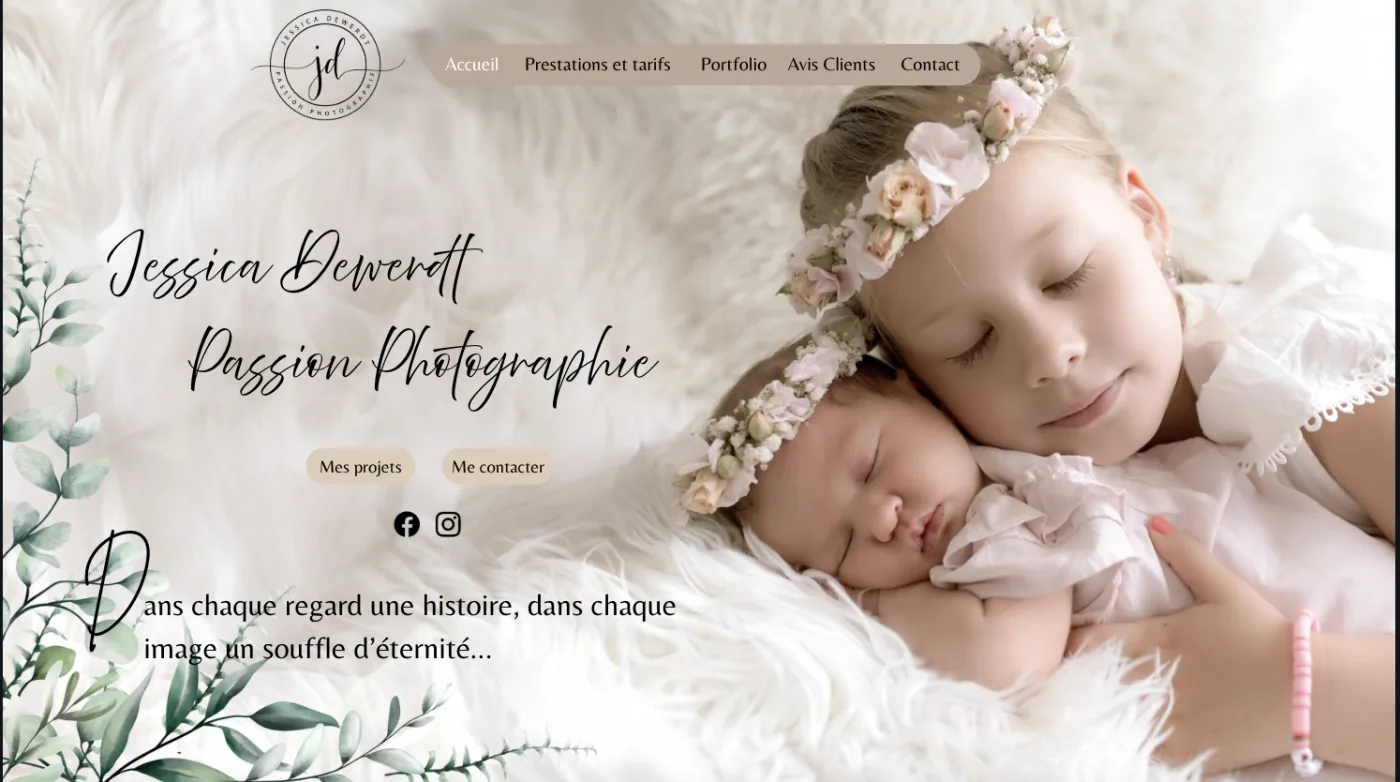
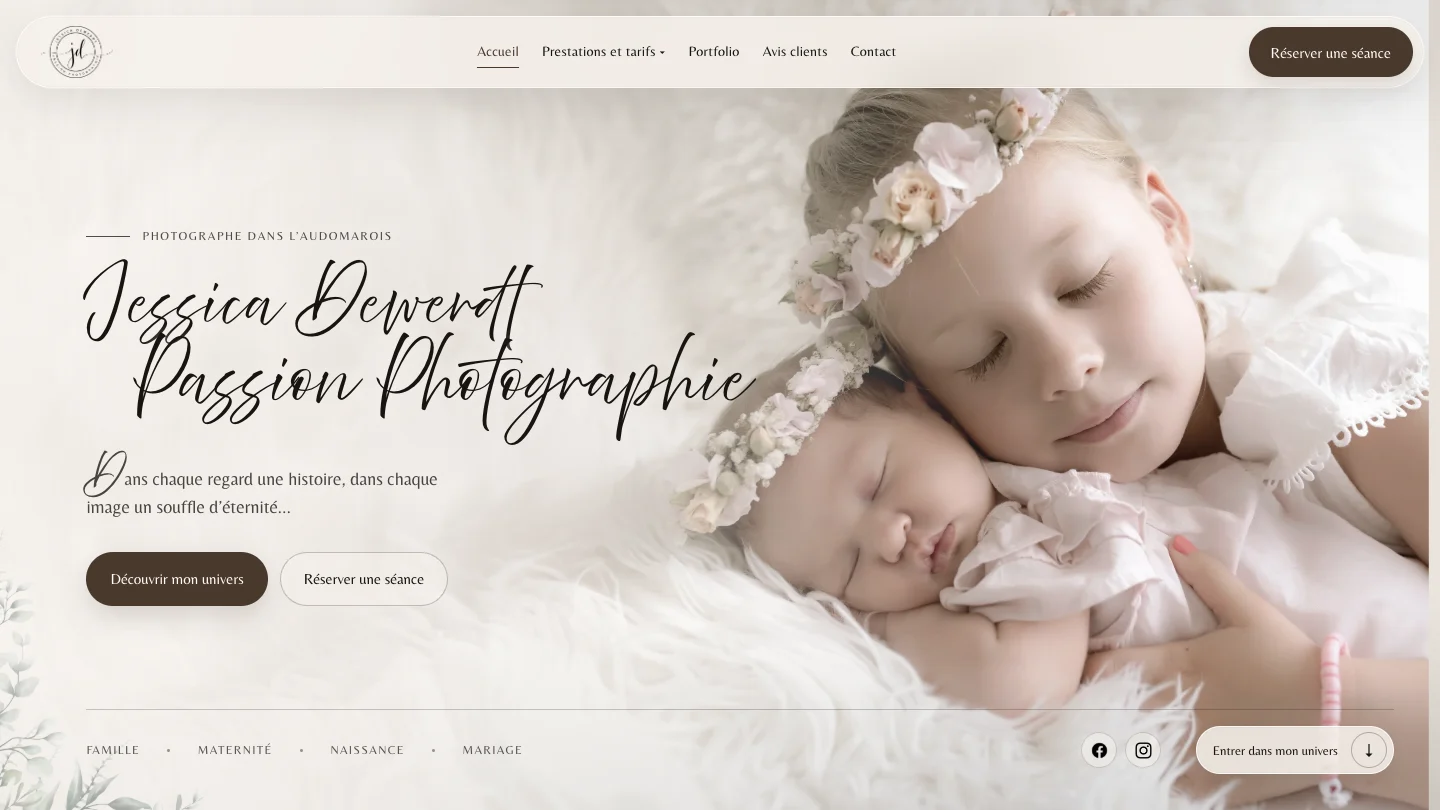
Actualise Jessica Dew et archive La Citadelle Rouge

diff --git a/script.js b/script.js
@@ -385,27 +385,66 @@ document.addEventListener("DOMContentLoaded", () => {
             id: 1,
             index: "05",
             filter: "client",
-            title: "Site Jessica Dew",
-            category: "Site vitrine · Client",
+            title: "Jessica Dew · Passion Photographie",
+            category: "Site vitrine & parcours de contact · Client",
             year: "2025 - 2026",
-            created: "Décembre 2025",
-            role: "Design & intégration",
-            status: "Itération client",
+            dateLabel: "Refonte",
+            created: "Juillet 2026",
+            role: "Direction artistique & développement full-stack",
+            status: "Préproduction",
             accent: "#43dfff",
             logo: "./images/projects/jessica-dew/logo.png",
             logoAlt: "Monogramme Jessica Dew",
             logoMark: "JD",
             description:
-                "Création d'un site vitrine sur mesure pour une photographe.\n\nLe projet est encore en cours d'itération selon les besoins de la cliente.",
-            summary: "Direction artistique éditoriale et parcours de conversion simplifié.",
-            impact: "Maquette premium et parcours de contact optimisé.",
-            techs: ["HTML", "CSS", "JavaScript"],
+                "Refonte complète du site de Jessica Dewerdt, photographe dans l'Audomarois. L'objectif était de traduire son univers doux et éditorial dans une expérience claire, immersive et rassurante, sans laisser les informations pratiques prendre le dessus sur les images.\n\nLa nouvelle version construit un véritable parcours client : une hero expressive, six univers de séances, des pages détaillées avec tarifs, un portfolio, des avis, des cartes cadeaux, des offres temporaires et des appels à l'action cohérents jusqu'à la prise de contact.\n\nLe formulaire est intégré à une application Symfony et ne se limite pas à un simple envoi d'e-mail. Il préremplit le type de séance selon le parcours, valide les données côté navigateur et serveur, bloque les soumissions automatisées avec un challenge signé et un honeypot, limite les abus et évite les doublons grâce à une clé d'idempotence. Les demandes sont ensuite transmises par Brevo avec une adresse d'envoi authentifiée et l'adresse du visiteur en réponse directe.\n\nL'ensemble a été conçu pour rester fluide et lisible du mobile au grand écran, avec une navigation accessible, des carrousels contrôlables, une prise en charge de la réduction des animations et des tests dédiés aux parcours critiques.",
+            summary: "Un site photographique complet qui transforme un univers visuel en parcours de découverte et de prise de contact.",
+            impact: "Six prestations, portfolio éditorial, contenus commerciaux et formulaire Symfony sécurisé relié à la messagerie cliente.",
+            techs: ["Symfony 7.4", "PHP 8.2", "Twig", "JavaScript", "HTML", "CSS", "Brevo SMTP", "PHPUnit"],
             cover: "./images/projects/jessica-dew/cover.webp",
+            coverLabel: "Refonte éditoriale & parcours client",
+            galleryLayout: "case-study",
             images: [
-                "./images/projects/jessica-dew/gallery/page-complete.png",
-                "./images/projects/jessica-dew/gallery/portfolio-photographe.png"
+                {
+                    src: "./images/projects/jessica-dew/gallery/catalogue-prestations.webp",
+                    alt: "Catalogue des prestations photographiques du site Jessica Dew",
+                    caption: "Six univers de séances structurés pour guider chaque besoin",
+                    group: "Découvrir l'univers",
+                    orientation: "landscape"
+                },
+                {
+                    src: "./images/projects/jessica-dew/gallery/portfolio-editorial.webp",
+                    alt: "Portfolio éditorial du site Jessica Dew",
+                    caption: "Portfolio immersif mêlant sélection horizontale et composition éditoriale",
+                    group: "Découvrir l'univers",
+                    orientation: "landscape"
+                },
+                {
+                    src: "./images/projects/jessica-dew/gallery/seance-naissance.webp",
+                    alt: "Page consacrée aux séances naissance sur le site Jessica Dew",
+                    caption: "Page prestation avec récit, galerie contrôlable et accès aux tarifs",
+                    group: "Du contenu à la demande",
+                    orientation: "landscape"
+                },
+                {
+                    src: "./images/projects/jessica-dew/gallery/formulaire-contact.webp",
+                    alt: "Formulaire de contact du site Jessica Dew",
+                    caption: "Formulaire contextuel, accessible et relié à une chaîne d'envoi sécurisée",
+                    group: "Du contenu à la demande",
+                    orientation: "landscape"
+                }
             ],
-            repoLink: null,
+            features: [
+                "Hero immersive, identité éditoriale sur mesure et navigation responsive commune à l'ensemble du site.",
+                "Six univers de séances avec contenus, galeries, tarifs et appels à l'action adaptés.",
+                "Portfolio, avis clients, cartes cadeaux et offres temporaires réunis dans un parcours cohérent.",
+                "Carrousels accessibles, navigation clavier, états de focus et réduction des animations prise en charge.",
+                "Formulaire prérempli selon la séance, validation client/serveur et conservation des saisies en cas d'erreur.",
+                "Protection par challenge signé, honeypot, limites de débit, contrôle d'origine et idempotence.",
+                "Envoi transactionnel via Brevo, sans base de données ni cookie pour traiter les demandes.",
+                "Tests PHPUnit des parcours critiques et préparation du déploiement sur l'hébergement de la cliente."
+            ],
+            repoLink: "https://github.com/rfielbal/Jessica-Dew-Passion-Photographie",
             liveLink: null
         },
         {
@@ -508,7 +547,7 @@ document.addEventListener("DOMContentLoaded", () => {
             year: "2019",
             created: "Juillet 2019",
             role: "Game design & automatisation",
-            status: "En développement",
+            status: "Archivé",
             accent: "#ff5f57",
             logo: "./images/projects/citadelle-rouge/logo.svg",
             logoMark: "CR",
@@ -646,28 +685,28 @@ document.addEventListener("DOMContentLoaded", () => {
         },
         interaction: {
             accent: "#43dfff",
-            status: "Jessica Dew / itération client",
+            status: "Jessica Dew / préproduction",
             index: "03 / 04",
-            context: "Client · UI/UX",
-            mediaType: "Site vitrine sur mesure",
+            context: "Client · UX & développement",
+            mediaType: "Site photographique complet",
             project: "Jessica Dew",
-            title: "Capter l'attention sans détourner le regard du contenu.",
-            summary: "Une interface efficace attire l'œil, hiérarchise l'information et conduit naturellement vers la prise de contact.",
-            need: "Mettre en valeur l'univers d'une photographe sans laisser la mise en scène visuelle masquer les informations utiles.",
-            decision: "Construire une direction éditoriale centrée sur l'image, une navigation courte et des points de contact visibles sur chaque format.",
-            proof: "Maquettes sur mesure, galerie responsive, hiérarchie typographique et itérations menées selon les retours de la cliente.",
-            techs: ["UI/UX", "HTML", "CSS", "JavaScript"],
-            image: "./images/projects/jessica-dew/gallery/accueil.png",
-            imageAlt: "Page d'accueil du site de la photographe Jessica Dew",
+            title: "Faire de l'image le point de départ d'un parcours complet.",
+            summary: "Une interface réussie capte l'attention, rend l'offre compréhensible et accompagne naturellement jusqu'à la prise de contact.",
+            need: "Présenter six univers photographiques sans perdre la douceur de la marque ni les informations attendues avant une réservation.",
+            decision: "Associer une direction éditoriale centrée sur l'image à des pages structurées, des actions cohérentes et un formulaire contextuel.",
+            proof: "Hero immersive, prestations détaillées, portfolio, contenus commerciaux et chaîne de contact Symfony sécurisée.",
+            techs: ["UI/UX", "Symfony", "JavaScript", "Responsive"],
+            image: "./images/projects/jessica-dew/cover.webp",
+            imageAlt: "Nouvelle hero du site Jessica Dew Passion Photographie",
             imagePosition: "center",
             projectId: "1",
             action: "Examiner Jessica Dew",
-            role: "UI/UX & intégration",
+            role: "Direction artistique & développement",
             nodes: [
-                { label: "Attention", value: "Image d'abord", icon: "fas fa-eye" },
-                { label: "Parcours", value: "Navigation claire", icon: "fas fa-route" },
-                { label: "Interface", value: "Responsive", icon: "fas fa-display" },
-                { label: "Conversion", value: "Prise de contact", icon: "fas fa-envelope" }
+                { label: "Attention", value: "Hero éditoriale", icon: "fas fa-eye" },
+                { label: "Parcours", value: "6 univers", icon: "fas fa-route" },
+                { label: "Interface", value: "Accessible", icon: "fas fa-display" },
+                { label: "Contact", value: "Symfony + SMTP", icon: "fas fa-envelope" }
             ]
         },
         delivery: {

diff --git a/index.html b/index.html
@@ -887,6 +887,6 @@
         </div>
     </div>
 
-    <script src="script.js?v=revaloop-20260726"></script>
+    <script src="script.js?v=jessica-20260726"></script>
 </body>
 </html>
